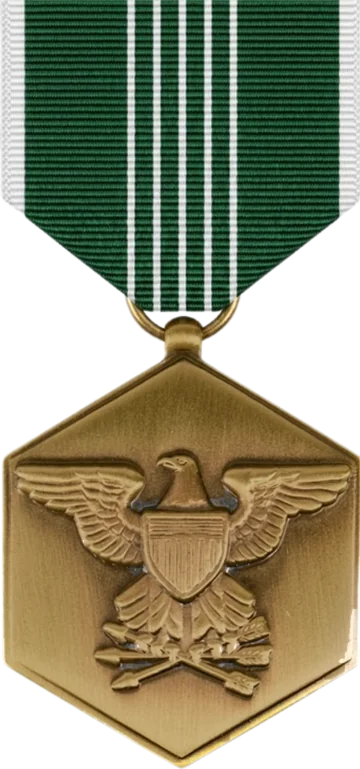
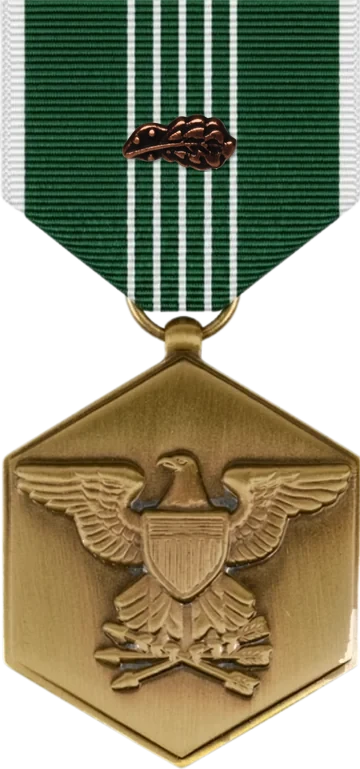
Mount v2 (Sergio's feedback): lower rows keep their suspension ribbons (cropped to the ring line above, slivers show in the gaps); drape devices from awards.json in MoA device photos: JSCM/ArCOM 1 bronze 7/16 OLC, NAM 4 gold 5/16 stars, NGCM 1 silver star, ACM/ICM 2 bronze campaign stars; overlapped

Changed region(s): [[0.3361, 0.1248, 0.6722, 0.2497]]

diff --git a/src/components/shadowbox/decorations-view.tsx b/src/components/shadowbox/decorations-view.tsx
@@ -53,35 +53,37 @@ export function Decorations({ onOpen, title, t }: { onOpen: (k: Kind, id: string
   );
 }
 
-/** Mounted photo fronts (Oct 17 2026), matched to Sergio's own mount (album PXL_20231111_234949714): only the top row's
- *  suspension ribbons show; each lower row shows its pendants only, hung from the same line, with the upper row's
- *  pendants covering their tops. Per photo: [y of the suspension ring (the ribbon ends above it), image height], in px
- *  of the 360 px wide -front.webp. Measured from the files (medals/sergio/overlap/front-metrics.json). */
+/** Mounted photo fronts (Oct 17 2026), matched to Sergio's own mount (album PXL_20231111_234949714). Every row hangs
+ *  from its own ring line, 0.85 of a pendant height below the row above; all suspension ribbons are cropped at the top
+ *  to the shortest drape, so the upper medals hide most of each lower drape and only slivers show in the gaps (v2,
+ *  after Sergio's feedback: lower drapes are no longer cut away). Per photo: [y of the suspension ring, image height],
+ *  in px of the 360 px wide -front.webp (medals/sergio/overlap/front-metrics.json). */
 const HANG: Record<string, [number, number]> = {
   aam: [347, 771], acm: [351, 748], arcom: [312, 769], gwotsm: [361, 759], hsm: [352, 757], icm: [352, 745],
   jsam: [358, 758], jscm: [364, 764], nam: [341, 751], nato: [379, 753], ncm: [358, 744], ndsm: [371, 761],
   ngcm: [343, 762], pistol: [355, 753], rifle: [326, 755],
 };
+/** Medals whose drape devices sit on the visible part of the ribbon when overlapped (art. 5316.2.e): <id>-mount.webp. */
+const MOUNT_VARIANT = new Set(["arcom", "nam", "ngcm", "acm", "icm"]);
 const PHOTO_W = 360;
 /** Reference: rows hang 0.85 of a pendant height apart (mean pendant body 351 px). */
 const ROW_STEP = 299;
-/** Lower rows are cut just below the ring, so no part of their ribbon can show between the medals above. */
-const CUT_BELOW_RING = 4;
 const BTN_MI = 1.375; // button width in --mi (1 3/8 in ribbon)
 function mountLayout(rows: Award[][]) {
   const px = (v: number) => (v / PHOTO_W) * BTN_MI; // image px -> --mi
-  const top = rows[0] ?? [];
-  // Top row: ribbons cropped at the top to the shortest drape, so ribbon tops and rings both line up.
-  const drape = Math.min(...top.map((a) => HANG[a.id]?.[0] ?? 0));
+  const drape = Math.min(...rows.flat().map((a) => HANG[a.id]?.[0] ?? PHOTO_W));
   return rows.map((row, r) => {
-    const items = row.map((award) => {
+    const items = row.map((award, i) => {
       const [ring, h] = HANG[award.id] ?? [drape, PHOTO_W * 2];
-      const from = r === 0 ? ring - drape : ring + CUT_BELOW_RING;
+      // Lower rows: ribbon cropped to start at the ring line of the row above (as if tucked under its holding bar).
+      const from = r === 0 ? ring - drape : ring - ROW_STEP;
+      const src = i > 0 && MOUNT_VARIANT.has(award.id) ? `/medals/photo/${award.id}-mount.webp` : medalFor(award.id)!.front!;
       // marginTop is a % of the button width; clip-path inset is a % of the image height.
-      return { award, src: medalFor(award.id)!.front!, top: (from / PHOTO_W) * 100, clip: (from / h) * 100, rest: h - from };
+      return { award, src, top: (from / PHOTO_W) * 100, clip: (from / h) * 100, rest: h - from };
     });
-    const last = r === rows.length - 1;
-    const height = last ? px(Math.max(...items.map((i) => i.rest)) + 4) : r === 0 ? px(drape + ROW_STEP + CUT_BELOW_RING) : px(ROW_STEP);
+    // Row boxes: the top row's starts at the top of its cropped drapes, each lower row's at the ring line above, so a
+    // row's box height is the distance from its top to its own ring line (the next row starts there).
+    const height = r === rows.length - 1 ? px(Math.max(...items.map((i) => i.rest)) + 4) : px(r === 0 ? drape : ROW_STEP);
     return { row, height, items };
   });
 }
